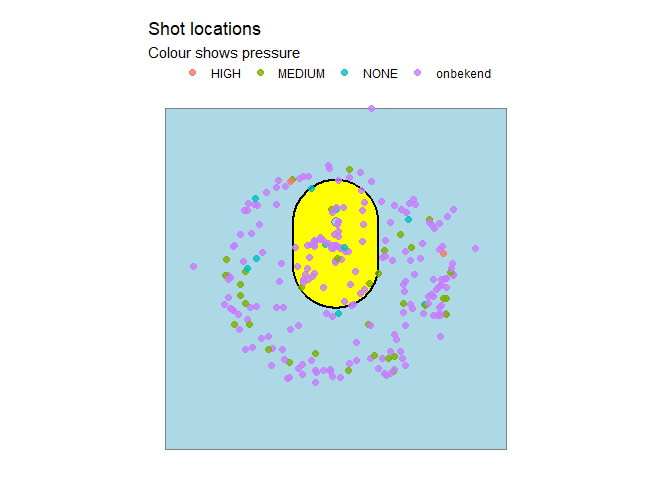
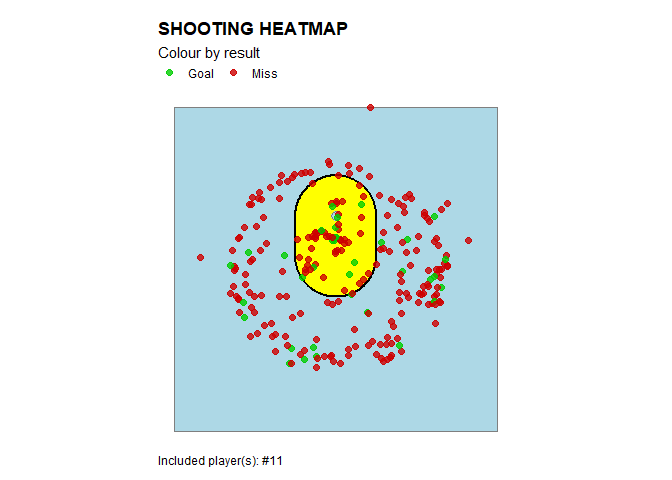
remade readme

Changed region(s): [[0.2188, 0.2188, 0.7812, 0.9688], [0.2188, 0.0312, 0.5938, 0.1875], [0.6562, 0.125, 0.7188, 0.1875]]

diff --git a/README.md b/README.md
@@ -7,15 +7,13 @@
 
 <!-- badges: end -->
 
-TagR helps you work with TeamTV “tagged shots” exports for korfball. It
-provides:
+TagR helps you work with “tagged shots” from the popular TeamTV analysis
+platform, mainly used in korfball. It includes:
 
-- quick quality checks (missingness patterns)
-- shot location visualizations on a korfball half-field
-- team descriptives tables + plots for coaching dashboards
-- simple per-player analysis plots (binomial trends for distance,
-  pressure, and shot count)
-- a leg preference slider for comparing players at a glance
+- Functions to tell you what information you miss.
+- Various visualisations of tagged shots.
+- Dashboards to compare and analyse teams and individual players at a
+  glance.
 
 ## Installation
 
@@ -28,8 +26,8 @@ pak::pak("EmmaDirk/TagR")
 
 ## Data format
 
-Most TagR functions expect a TeamTV shot export with the same structure
-as the example dataset shipped with the package:
+TagR functions expect a TeamTV shot export with the same structure as
+the example dataset shipped with the package:
 
 ``` r
 library(TagR)
@@ -77,22 +75,25 @@ str(shots, 1)
 
 ## Missingness patterns
 
-A quick way to see what information you do, and do not have.
+A quick way to see what information you have, and what information you
+have not yet recorded.
 
 ``` r
+# example: plot missingness pattern for all shots
 p <- tagr_plot_missingness(shots)
 p
 ```
 
 <img src="man/figures/README-unnamed-chunk-3-1.png" width="100%" />
 
-## Shot location plots
+## Shot visualisations by location
 
-TagR includes visualisations of shot location, filtered in various ways.
+TagR includes visualisations of shot location, where various attributes
+of the shots can be mapped to colour.
 
 ``` r
-# Example: result-colored plot (GOAL vs MISS) 
-p <- TagR::tagr_plot_shots_result(TagR::shots)
+# example: result-colored plot (GOAL vs MISS) 
+p <- tagr_heatmap(shots, colour_by = "result")
 p
 ```
 
@@ -103,67 +104,54 @@ optional `player` argument (fuzzy match on name or exact match on
 number).
 
 ``` r
-# Example: plot shots for player number 11 only
-p <- TagR::tagr_plot_shots_pressure(TagR::shots, player = "11")
+# example: plot shots for player number 11 only
+p <- tagr_heatmap(shots, colour_by = "result", player = "11")
 p
 ```
 
 <img src="man/figures/README-unnamed-chunk-5-1.png" width="100%" />
 
-## Team descriptives (tables + plots)
-
-Compute goal percentages by key categories (pressure, distance band,
-shot type, shot count band, leg). Returns plain data.frames so they are
-easy to inspect and test.
+Included shots can also be filtered by type (e.g., exclude freeballs),
+result (i.e. goal or miss), pressure level and leg.
 
 ``` r
-tabs <- tagr_team_overview_tables(shots)
-
-names(tabs)
-#> [1] "pressure"   "distance"   "type"       "shot_count" "leg"
-tabs$pressure
-#> # A tibble: 4 × 4
-#>   level    shots goals pct_goal
-#>   <chr>    <int> <int>    <dbl>
-#> 1 ONBEKEND   989   148    15.0 
-#> 2 MEDIUM     156    25    16.0 
-#> 3 NONE        38     5    13.2 
-#> 4 HIGH        13     1     7.69
-tabs$type
-#> # A tibble: 5 × 4
-#>   level      shots goals pct_goal
-#>   <chr>      <int> <int>    <dbl>
-#> 1 LONG         632    56     8.86
-#> 2 SHORT        378    59    15.6 
-#> 3 RUNNING-IN   112    22    19.6 
-#> 4 FREE-BALL     39    14    35.9 
-#> 5 PENALTY       35    28    80
+# example: plot right legged shots for player number 11 only
+p <- tagr_heatmap(shots, colour_by = "result", player = "11", filter = list(leg = "RIGHT"))
+p
 ```
 
-Plot one attribute as a quick bar chart:
+<img src="man/figures/README-unnamed-chunk-6-1.png" width="100%" />
+
+## Team dashboards
+
+TagR provides quick overviews of team shooting performance across
+various attributes, including pressure, distance, shot type, leg, and
+shot count band. Ideal for coaches to get a quick sense of team
+performance and identify areas for improvement, or identify threats when
+preparing for upcoming opponents.
 
 ``` r
-tagr_team_overview_plot(shots, attribute = "pressure")
+# example: team overview dashboard
+p <- tagr_team_dashboad(shots)
+p
 ```
 
 <img src="man/figures/README-unnamed-chunk-7-1.png" width="100%" />
 
-``` r
-tagr_team_overview_plot(shots, attribute = "distance")
-```
+## Player dashboards
 
-<img src="man/figures/README-unnamed-chunk-7-2.png" width="100%" />
-
-Filter to a single player (fuzzy match on name or exact match on
-number):
+Or zoom in on individual players to see their shooting performance
+across various attributes, compared to the team average.
 
 ``` r
-tagr_team_overview_plot(shots, attribute = "type", player = "11")
+# example: player overview dashboard for player number 10
+p <- tagr_player_dashboard(shots, player = "17")
+p
 ```
 
 <img src="man/figures/README-unnamed-chunk-8-1.png" width="100%" />
 
-## Player analysis (binomial trend plots)
+## Player analysis
 
 TagR provides simple visualizations to show how scoring probability
 changes with:
@@ -172,47 +160,24 @@ changes with:
 - pressure (NONE \< MEDIUM \< HIGH)
 - shot count band (1, 2, 3, 4+)
 
-Player plots optionally include the team line/points for comparison, and
-you can restrict to LONG/SHORT shots only, including only shots from
-open play.
+This can provide coaches with a simple way to view if players are
+struggling under pressure, or from longer distances.
 
 ``` r
-tagr_plot_prob_by_distance(shots)
+# example: plot scoring probability by pressure for player number 10
+p <- tagr_shot_analysis(shots, player = "10", feature = "pressure", add_team = TRUE)
+p
 ```
 
 <img src="man/figures/README-unnamed-chunk-9-1.png" width="100%" />
 
-``` r
-tagr_plot_prob_by_distance(shots, player = "11", long_short_only = TRUE)
-```
-
-<img src="man/figures/README-unnamed-chunk-9-2.png" width="100%" />
+where `feature` can also be `"distance"` or `"shot_count_band"`.
+Multiple players can be added.
 
 ``` r
-
-tagr_plot_prob_by_pressure(shots, player = "Joost Dek")
-```
-
-<img src="man/figures/README-unnamed-chunk-9-3.png" width="100%" />
-
-``` r
-tagr_plot_prob_by_shot_count(shots, player = "11")
-```
-
-<img src="man/figures/README-unnamed-chunk-9-4.png" width="100%" />
-
-## Leg preference slider
-
-A compact visualization that places all players on a left-to-right “leg
-preference” slider. It uses only SHORT, LONG, and FREE-BALL shots and
-combines volume and success per leg. The y-axis shows number of shots,
-and each dot is labeled with the player name/number.
-
-``` r
-tagr_plot_leg_preference_slider(shots)
-#> Warning in ggplot2::geom_segment(ggplot2::aes(x = -1, xend = 1, y = 0, yend = 0), : All aesthetics have length 1, but the data has 11 rows.
-#> ℹ Please consider using `annotate()` or provide this layer with data containing
-#>   a single row.
+# example: plot scoring probability by distance for player number 10
+p <- tagr_shot_analysis(shots, player = c("10", "17"), feature = "distance", add_team = TRUE)
+p
 ```
 
 <img src="man/figures/README-unnamed-chunk-10-1.png" width="100%" />
